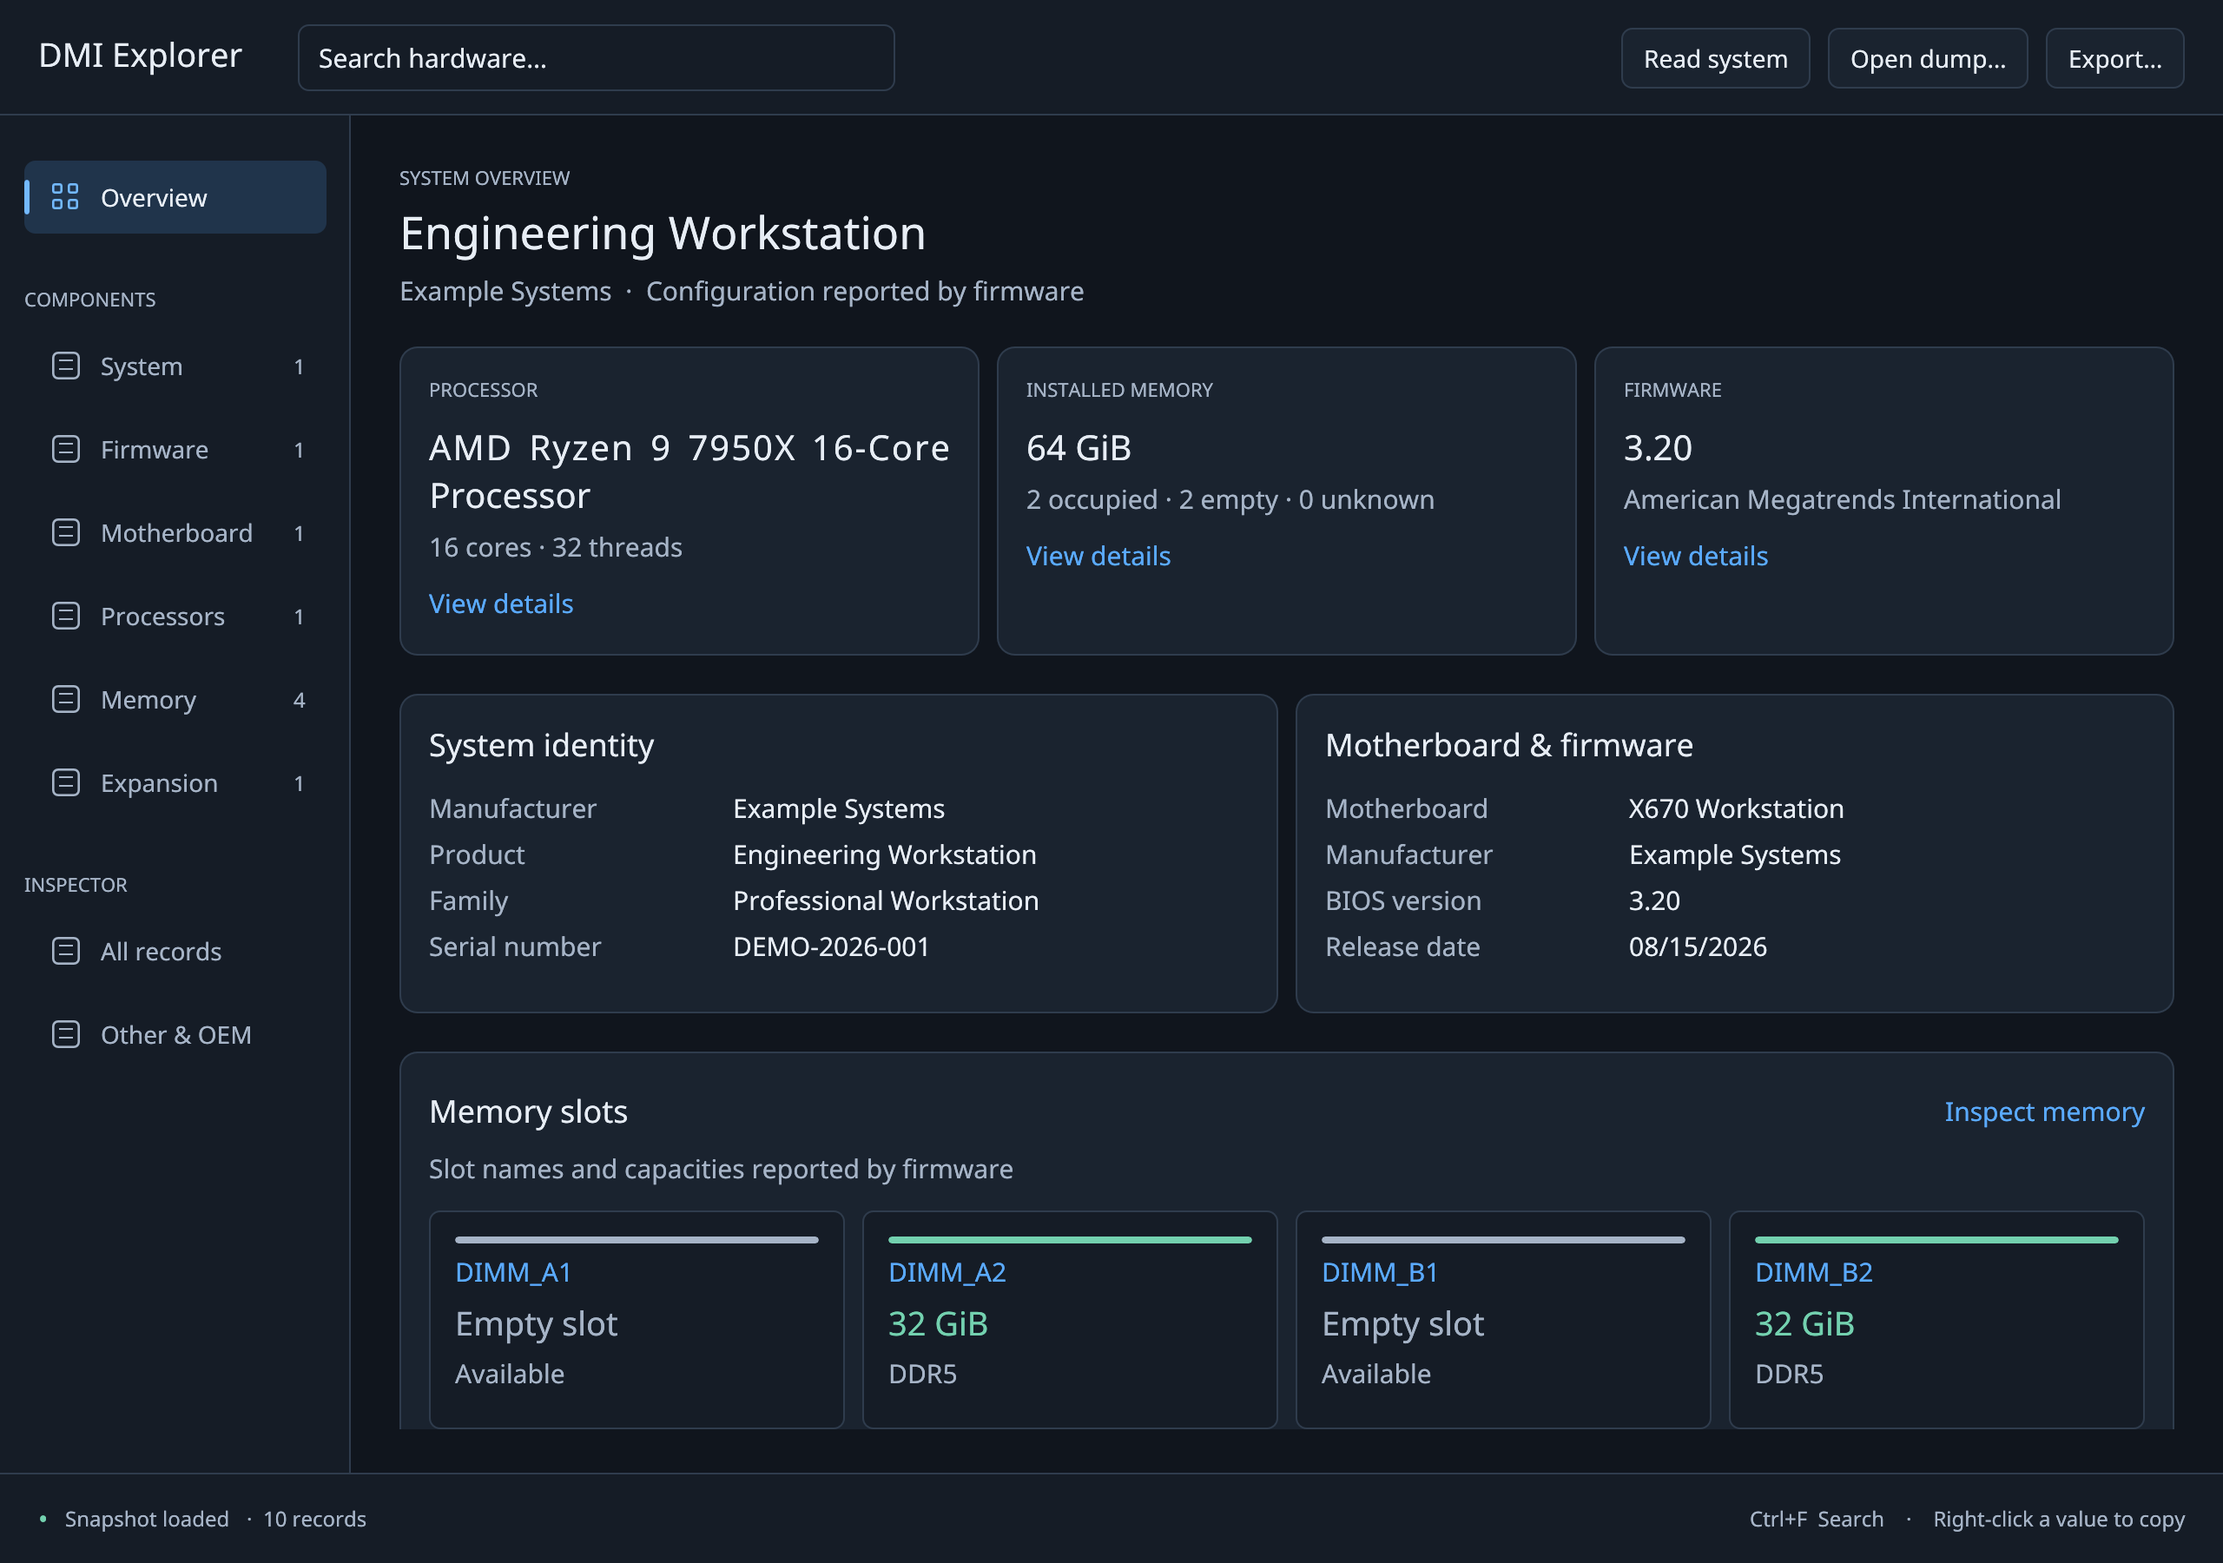
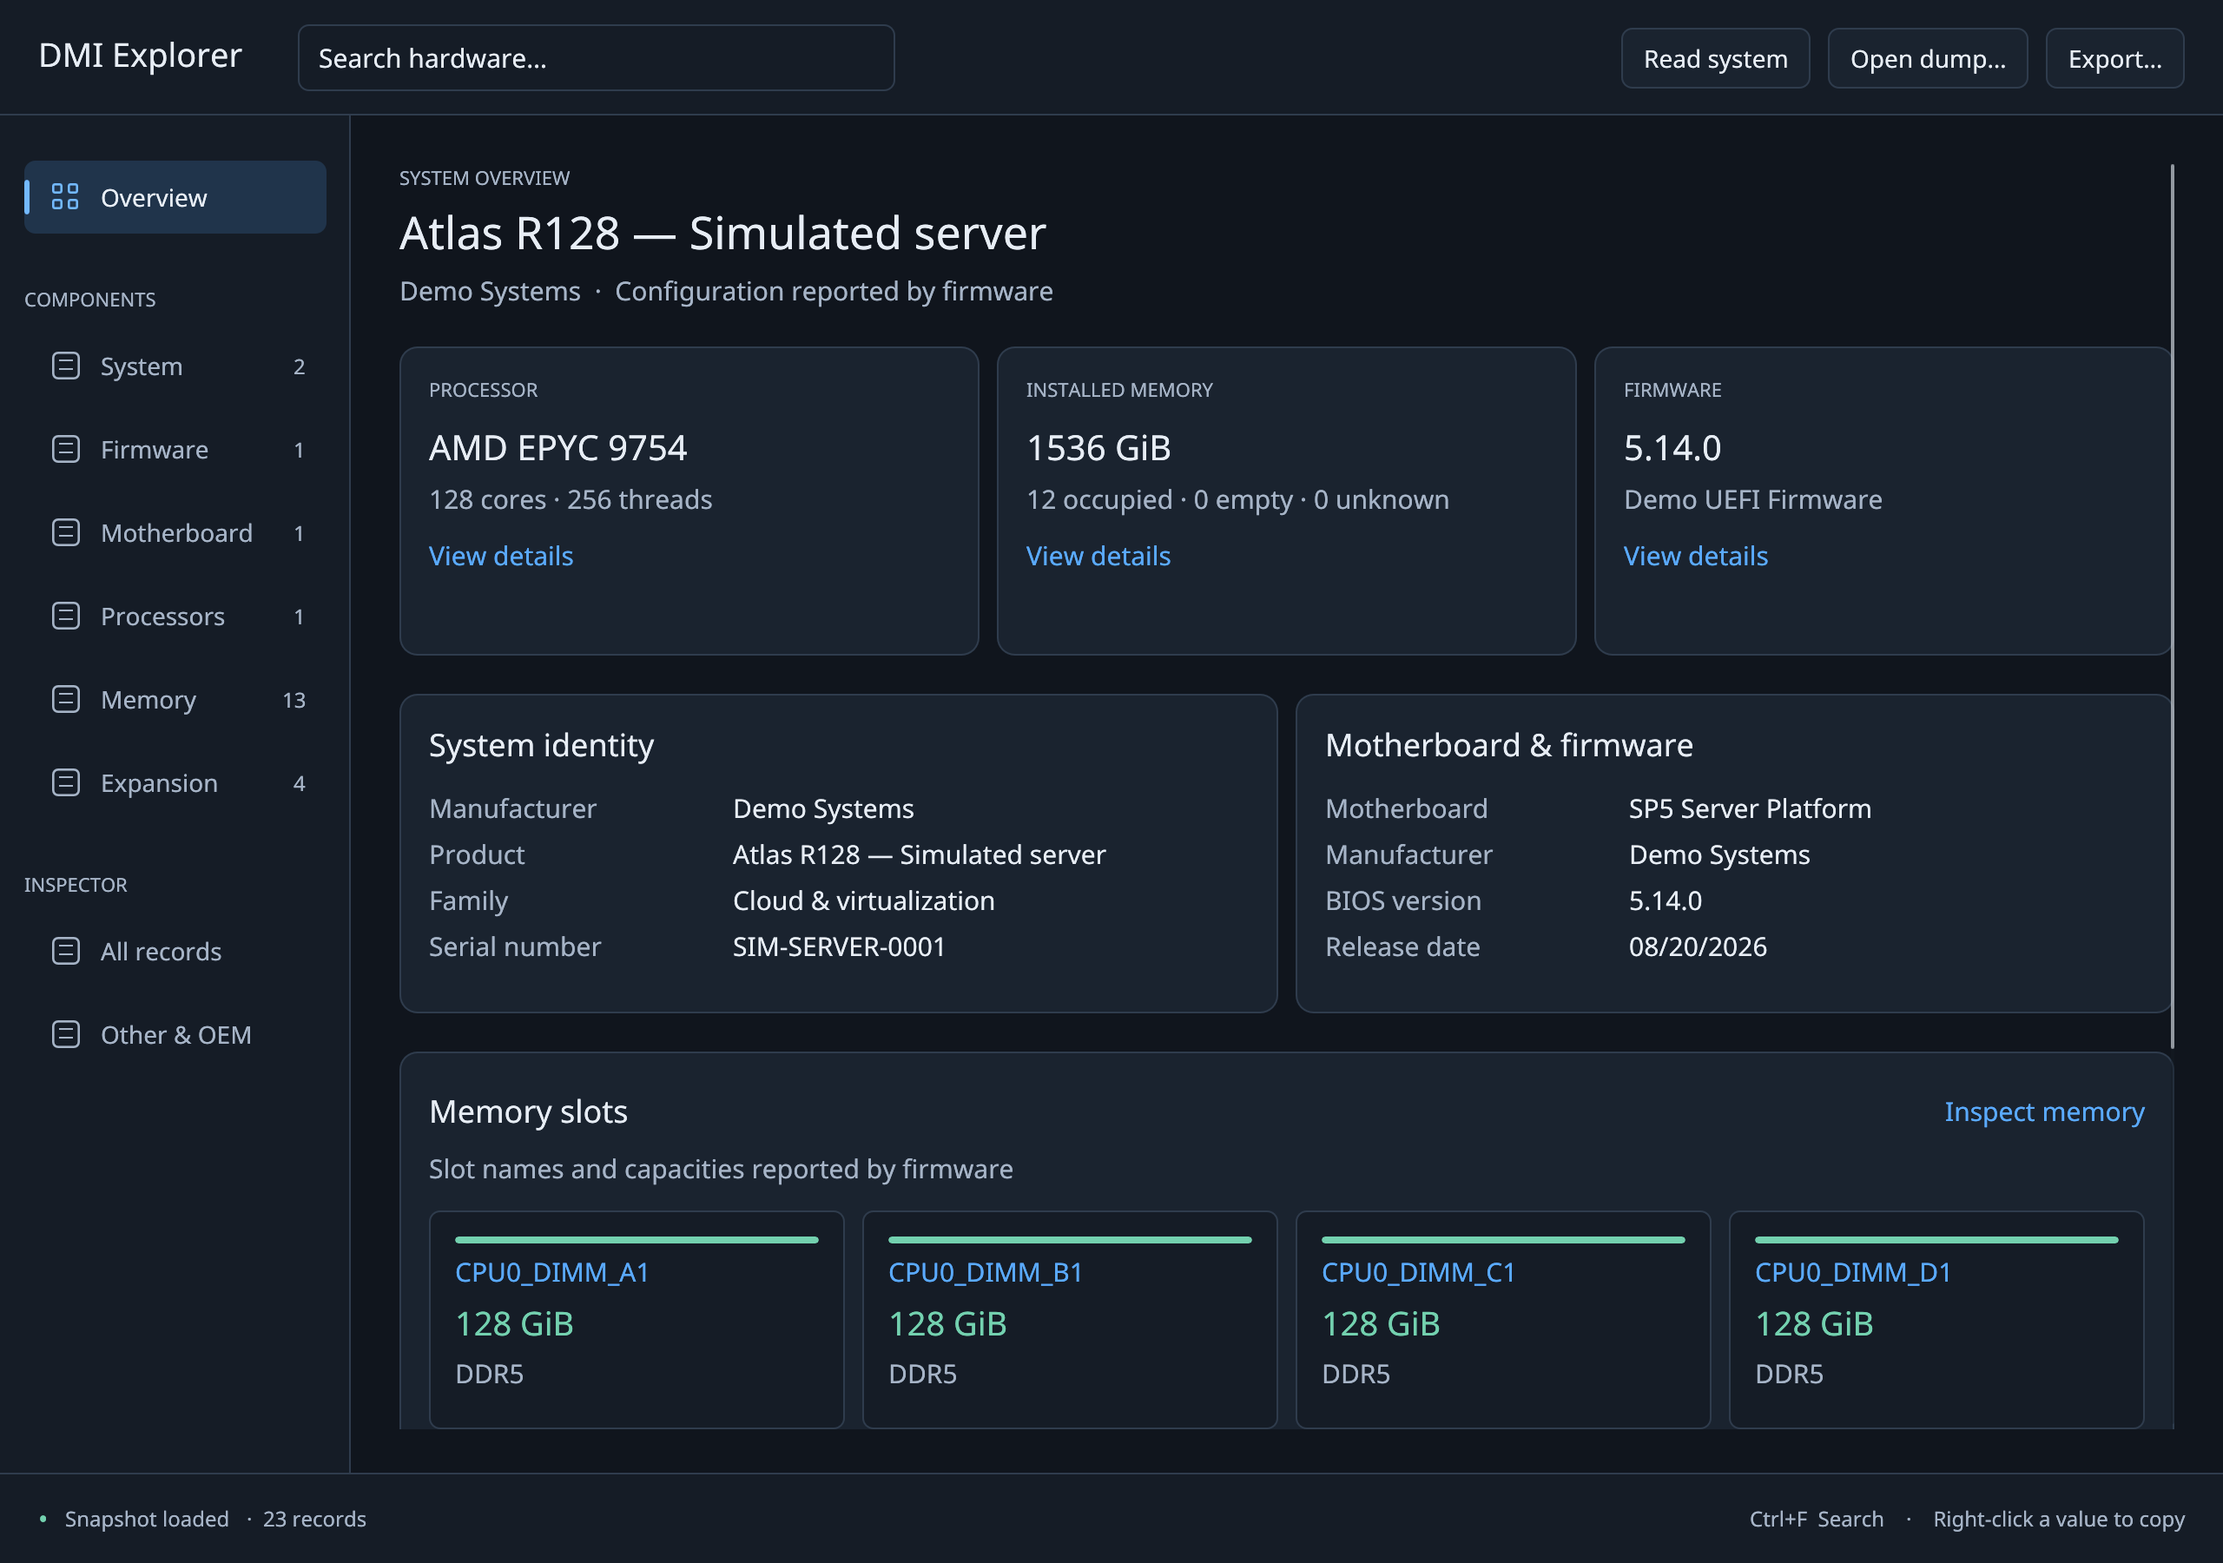
Showcase DMI Explorer with a reproducible EPYC server demo

diff --git a/examples/generate_server_fixture.rs b/examples/generate_server_fixture.rs
@@ -1,0 +1,177 @@
+//! Generate the entirely synthetic server used in documentation screenshots.
+//! Run from the repository root: cargo run --example generate_server_fixture
+use std::{fs, io};
+
+fn record(
+    table: &mut Vec<u8>,
+    kind: u8,
+    handle: u16,
+    length: usize,
+    strings: &[&str],
+    fields: &[(usize, &[u8])],
+) {
+    let mut bytes = vec![0; length];
+    bytes[0] = kind;
+    bytes[1] = length as u8;
+    bytes[2..4].copy_from_slice(&handle.to_le_bytes());
+    for &(offset, value) in fields {
+        bytes[offset..offset + value.len()].copy_from_slice(value);
+    }
+    table.extend(bytes);
+    for string in strings {
+        table.extend(string.as_bytes());
+        table.push(0);
+    }
+    table.push(0);
+    if strings.is_empty() {
+        table.push(0);
+    }
+}
+
+fn main() -> io::Result<()> {
+    let mut table = Vec::new();
+    record(
+        &mut table,
+        1,
+        0x100,
+        27,
+        &[
+            "Demo Systems",
+            "Atlas R128 — Simulated server",
+            "Rev 2.0",
+            "SIM-SERVER-0001",
+            "ATLAS-128",
+            "Cloud & virtualization",
+        ],
+        &[(4, &[1, 2, 3, 4]), (8, &[0x11; 16]), (24, &[6, 5, 6])],
+    );
+    record(
+        &mut table,
+        0,
+        0,
+        26,
+        &["Demo UEFI Firmware", "5.14.0", "08/20/2026"],
+        &[
+            (4, &[1, 2]),
+            (8, &[3, 255]),
+            (10, &((1u64 << 7) | (1 << 11)).to_le_bytes()),
+            (18, &[1, 8, 5, 14]),
+            (24, &64u16.to_le_bytes()),
+        ],
+    );
+    record(
+        &mut table,
+        2,
+        0x200,
+        15,
+        &[
+            "Demo Systems",
+            "SP5 Server Platform",
+            "2.0",
+            "SIM-BOARD-0001",
+        ],
+        &[
+            (4, &[1, 2, 3, 4]),
+            (10, &[1]),
+            (11, &0x300u16.to_le_bytes()),
+            (13, &[10]),
+        ],
+    );
+    record(
+        &mut table,
+        3,
+        0x300,
+        9,
+        &["Demo Systems", "2U rack enclosure", "SIM-CHASSIS-0001"],
+        &[(4, &[1, 23, 2, 3, 0])],
+    );
+    // The legacy thread-count byte uses the sentinel; the extended field holds 256.
+    record(
+        &mut table,
+        4,
+        0x400,
+        48,
+        &[
+            "CPU0 / SP5",
+            "Advanced Micro Devices, Inc.",
+            "AMD EPYC 9754",
+            "SIM-CPU-0001",
+            "EPYC-9754-DEMO",
+        ],
+        &[
+            (4, &[1, 3, 0xfe, 2]),
+            (16, &[3]),
+            (20, &3100u16.to_le_bytes()),
+            (22, &2250u16.to_le_bytes()),
+            (24, &[65, 1]),
+            (26, &[0xff; 6]),
+            (32, &[4, 0, 5]),
+            (35, &[128, 128, 255]),
+            (38, &0xfcu16.to_le_bytes()),
+            (40, &0x6bu16.to_le_bytes()),
+            (42, &128u16.to_le_bytes()),
+            (44, &128u16.to_le_bytes()),
+            (46, &256u16.to_le_bytes()),
+        ],
+    );
+    record(
+        &mut table,
+        16,
+        0x1000,
+        23,
+        &[],
+        &[
+            (4, &[3, 3, 6]),
+            (7, &0x80000000u32.to_le_bytes()),
+            (11, &0xfffeu16.to_le_bytes()),
+            (13, &12u16.to_le_bytes()),
+            (15, &(6u64 * 1024 * 1024 * 1024 * 1024).to_le_bytes()),
+        ],
+    );
+    for i in 0u16..12 {
+        let locator = format!("CPU0_DIMM_{}1", char::from(b'A' + i as u8));
+        let bank = format!("Channel {}", i);
+        let serial = format!("SIM-DIMM-{i:04}");
+        record(
+            &mut table,
+            17,
+            0x1100 + i,
+            40,
+            &[
+                &locator,
+                &bank,
+                "Demo Memory",
+                &serial,
+                "DDR5-128G-ECC-RDIMM",
+            ],
+            &[
+                (4, &0x1000u16.to_le_bytes()),
+                (6, &0xfffeu16.to_le_bytes()),
+                (8, &80u16.to_le_bytes()),
+                (10, &64u16.to_le_bytes()),
+                (12, &0x7fffu16.to_le_bytes()),
+                (14, &[9]),
+                (16, &[1, 2, 34]),
+                (19, &(1u16 << 7 | 1 << 13).to_le_bytes()),
+                (21, &4800u16.to_le_bytes()),
+                (23, &[3, 4, 0, 5]),
+                (28, &131072u32.to_le_bytes()),
+                (32, &4800u16.to_le_bytes()),
+                (38, &1100u16.to_le_bytes()),
+            ],
+        );
+    }
+    for i in 0u16..4 {
+        let name = format!("PCIe expansion slot {}", i + 1);
+        record(
+            &mut table,
+            9,
+            0x900 + i,
+            17,
+            &[&name],
+            &[(4, &[1, 0xc6, 13, 4, 4]), (9, &i.to_le_bytes())],
+        );
+    }
+    record(&mut table, 127, 0xffff, 4, &[], &[]);
+    fs::write("tests/fixtures/server.bin", table)
+}

diff --git a/src/model.rs b/src/model.rs
@@ -241,6 +241,35 @@ mod tests {
         assert_eq!(modules[1].name(), "DIMM_A2");
     }
     #[test]
+    fn server_demo_has_extended_thread_count_and_twelve_memory_channels() {
+        let snapshot = Snapshot::decode(Inventory::from_bytes(
+            include_bytes!("../tests/fixtures/server.bin").to_vec(),
+            None,
+        ))
+        .unwrap();
+        let cpu = snapshot.records.iter().find(|r| r.kind == 4).unwrap();
+        assert_eq!(cpu.name(), "AMD EPYC 9754");
+        assert_eq!(cpu.value("core_count"), "128");
+        assert_eq!(cpu.value("thread_count"), "256");
+        assert_eq!(cpu.value("processor_family"), "AMD Zen Processor Family");
+        let modules: Vec<_> = snapshot.records.iter().filter(|r| r.kind == 17).collect();
+        assert_eq!(modules.len(), 12);
+        assert_eq!(
+            modules.iter().filter_map(|r| r.capacity_kib).sum::<u64>(),
+            1536 * 1024 * 1024
+        );
+        assert!(modules
+            .iter()
+            .all(|r| r.value("configured_memory_speed") == "4800 MT/s"));
+        assert!(snapshot
+            .records
+            .iter()
+            .find(|r| r.kind == 1)
+            .unwrap()
+            .name()
+            .contains("Simulated"));
+    }
+    #[test]
     fn empty_input_is_rejected() {
         assert!(Snapshot::decode(Inventory::from_bytes(Vec::new(), None)).is_err());
     }

diff --git a/src/presentation.rs b/src/presentation.rs
@@ -18,6 +18,7 @@ pub fn values(json: &Value) -> BTreeMap<String, String> {
         ("core_count", "core_count_2"),
         ("cores_enabled", "cores_enabled_2"),
         ("thread_count", "thread_count_2"),
+        ("processor_family", "processor_family_2"),
         ("speed", "extended_speed"),
         (
             "configured_memory_speed",
@@ -56,8 +57,12 @@ pub fn display_value(value: &Value) -> Option<String> {
         }
         Value::String(s) => Some(match s.as_str() {
             "NotInstalled" => "Not installed".into(),
-            "SeeExtendedSize" | "SeeExtendedSpeed" | "SeeCoreCount2" | "SeeCoresEnabled2"
-            | "SeeThreadCount2" => return None,
+            "SeeExtendedSize"
+            | "SeeExtendedSpeed"
+            | "SeeCoreCount2"
+            | "SeeCoresEnabled2"
+            | "SeeThreadCount2"
+            | "SeeProcessorFamily2" => return None,
             "Unknown" | "None" => "Not reported".into(),
             _ => s.trim().to_owned(),
         }),
@@ -102,6 +107,7 @@ pub fn display_value(value: &Value) -> Option<String> {
 }
 pub fn humanize(s: &str) -> String {
     match s {
+        "bit_64capable" => return "64-bit capable".into(),
         "Ddr" => return "DDR".into(),
         "Ddr2" => return "DDR2".into(),
         "Ddr3" => return "DDR3".into(),

diff --git a/README.md b/README.md
@@ -1,9 +1,58 @@
 # DMI Explorer
 
-A native Rust desktop viewer for SMBIOS hardware inventory, built with
-egui/eframe and the dmidecode-rs library. No Python, webview, or CLI-output parsing.
+**A clear view of your machine’s hardware, straight from its firmware.**
 
-![Overview using synthetic workstation data](docs/overview.png)
+DMI Explorer is a native Rust desktop application for browsing SMBIOS hardware
+inventory. See your system configuration at a glance, inspect individual memory
+modules and processors, and drill down to the original firmware records when
+you need the details.
+
+Built with **egui/eframe** and **dmidecode-rs**, it reads hardware through a shared
+Rust library and also opens saved binary dumps for offline inspection.
+
+## A server-sized preview
+
+![DMI Explorer showing a simulated AMD EPYC server with 128 cores, 256 threads and 1536 GiB of memory](docs/overview.png)
+
+*Actual application screenshot using entirely synthetic SMBIOS data. The Atlas
+R128 is a fictional server; all machine identifiers, board information, and
+firmware versions are invented.*
+
+| Demo configuration | Simulated hardware |
+| --- | --- |
+| Processor | AMD EPYC 9754 · 128 cores / 256 threads |
+| Memory | 1.5 TiB · 12 × 128 GiB DDR5-4800 ECC RDIMMs |
+| Platform | Single-socket SP5 server in a 2U rack enclosure |
+| Expansion | Four PCIe expansion-slot records |
+
+The CPU configuration follows [AMD’s published EPYC 9754 specifications](https://www.amd.com/en/products/processors/server/epyc/4th-generation-9004-and-8004-series/amd-epyc-9754.html).
+This preview is an inventory demonstration, not a benchmark or a claim of
+validation on that physical hardware.
+
+<details>
+<summary><strong>Look inside the processor view</strong></summary>
+
+![Processor details for the simulated AMD EPYC 9754, including core count, thread count, and reported clock speeds](docs/server-processor.png)
+
+Grouped specifications keep the important information readable. The complete
+JSON and binary record remain available in the raw inspector.
+
+</details>
+
+## What you can explore
+
+- **System overview** — processor configuration, installed memory, system identity,
+  motherboard, and firmware in one place.
+- **Memory layout** — see each reported slot, its capacity, and whether it is
+  populated, empty, or unknown.
+- **Component details** — grouped specifications with readable names and units,
+  while preserving firmware-supplied identifiers.
+- **Record inspector** — examine every SMBIOS record, decoded JSON, raw bytes,
+  strings, and supported vendor-specific OEM data.
+- **Search and copy** — find models, serials, handles, or displayed values such
+  as “128 GiB”; copy individual values or a complete summary.
+- **Offline inspection and export** — open a saved binary dump and export the
+  decoded inventory as JSON.
 
 ## Build and run
 
@@ -12,7 +61,7 @@ git clone git@github.com:nuclearcat/dmidecode-gui.git
 cd dmidecode-gui
 cargo run
 # Preview with synthetic data; no firmware access required:
-cargo run -- tests/fixtures/workstation.bin
+cargo run -- tests/fixtures/server.bin
 # Open a saved SMBIOS binary dump:
 cargo run -- /path/to/smbios.bin
 # Optimized standalone executable:
@@ -25,19 +74,15 @@ Wayland and X11 are supported through OpenGL. File dialogs use the desktop porta
 (`xdg-desktop-portal` and your desktop's portal backend). A C linker and platform
 development libraries are required to build eframe.
 
-## Explore hardware
+## Navigation and data
 
-- Overview of system identity, processors, installed memory, motherboard, and firmware.
-- Memory-slot cards distinguish installed capacity, empty slots, and unknown
-  capacity. Unknown modules are excluded from the explicitly labeled known total.
-- Component pages group specifications and normalize units and enum names.
-  Firmware strings and identifiers are preserved.
-- All records provides a list and detail pane on wider windows and a selector
-  on narrower ones. Complete JSON, bytes, and OEM decoding live under Raw record.
-- Search matches raw and displayed values. Ctrl+F focuses search; Escape clears
-  it. Right-click a value to copy, or copy a complete record summary.
-- Export saves the full table in the existing dmidecode-rs CLI JSON schema.
-  OEM extensions are displayed separately and do not change that schema.
+Ctrl+F focuses search; Escape clears it. Right-click a specification value to
+copy it. The record browser adapts between a list/detail layout and a compact
+selector according to window width.
+
+Unknown memory capacities are excluded from the explicitly labeled known total.
+JSON export preserves the dmidecode-rs CLI schema; OEM extensions are displayed
+separately.
 
 ## Firmware access
 
@@ -59,14 +104,20 @@ cargo clippy --no-deps -- -D warnings
 
 Tests cover library loading and OEM decoding, readable units, memory capacity,
 search, selection, error handling, and rendering at supported window widths.
-The test fixture contains synthetic data, not a real machine's inventory.
+The test fixtures contain synthetic data, not real machine inventories.
+
+Regenerate the server fixture deterministically with:
+
+```sh
+cargo run --example generate_server_fixture
+```
 
 The optional screenshot feature captures only the app window after rendering
 settles and closes the app after saving:
 
 ```sh
 cargo build --features screenshots
-DMI_SCREENSHOT_TO=/tmp/dmi-overview.png ./target/debug/dmidecode-gui tests/fixtures/workstation.bin
+DMI_SCREENSHOT_TO=/tmp/dmi-overview.png ./target/debug/dmidecode-gui tests/fixtures/server.bin
 ```
 
 Use `DMI_SCREENSHOT_CATEGORY=0` through `7` for a component/inspector page and
